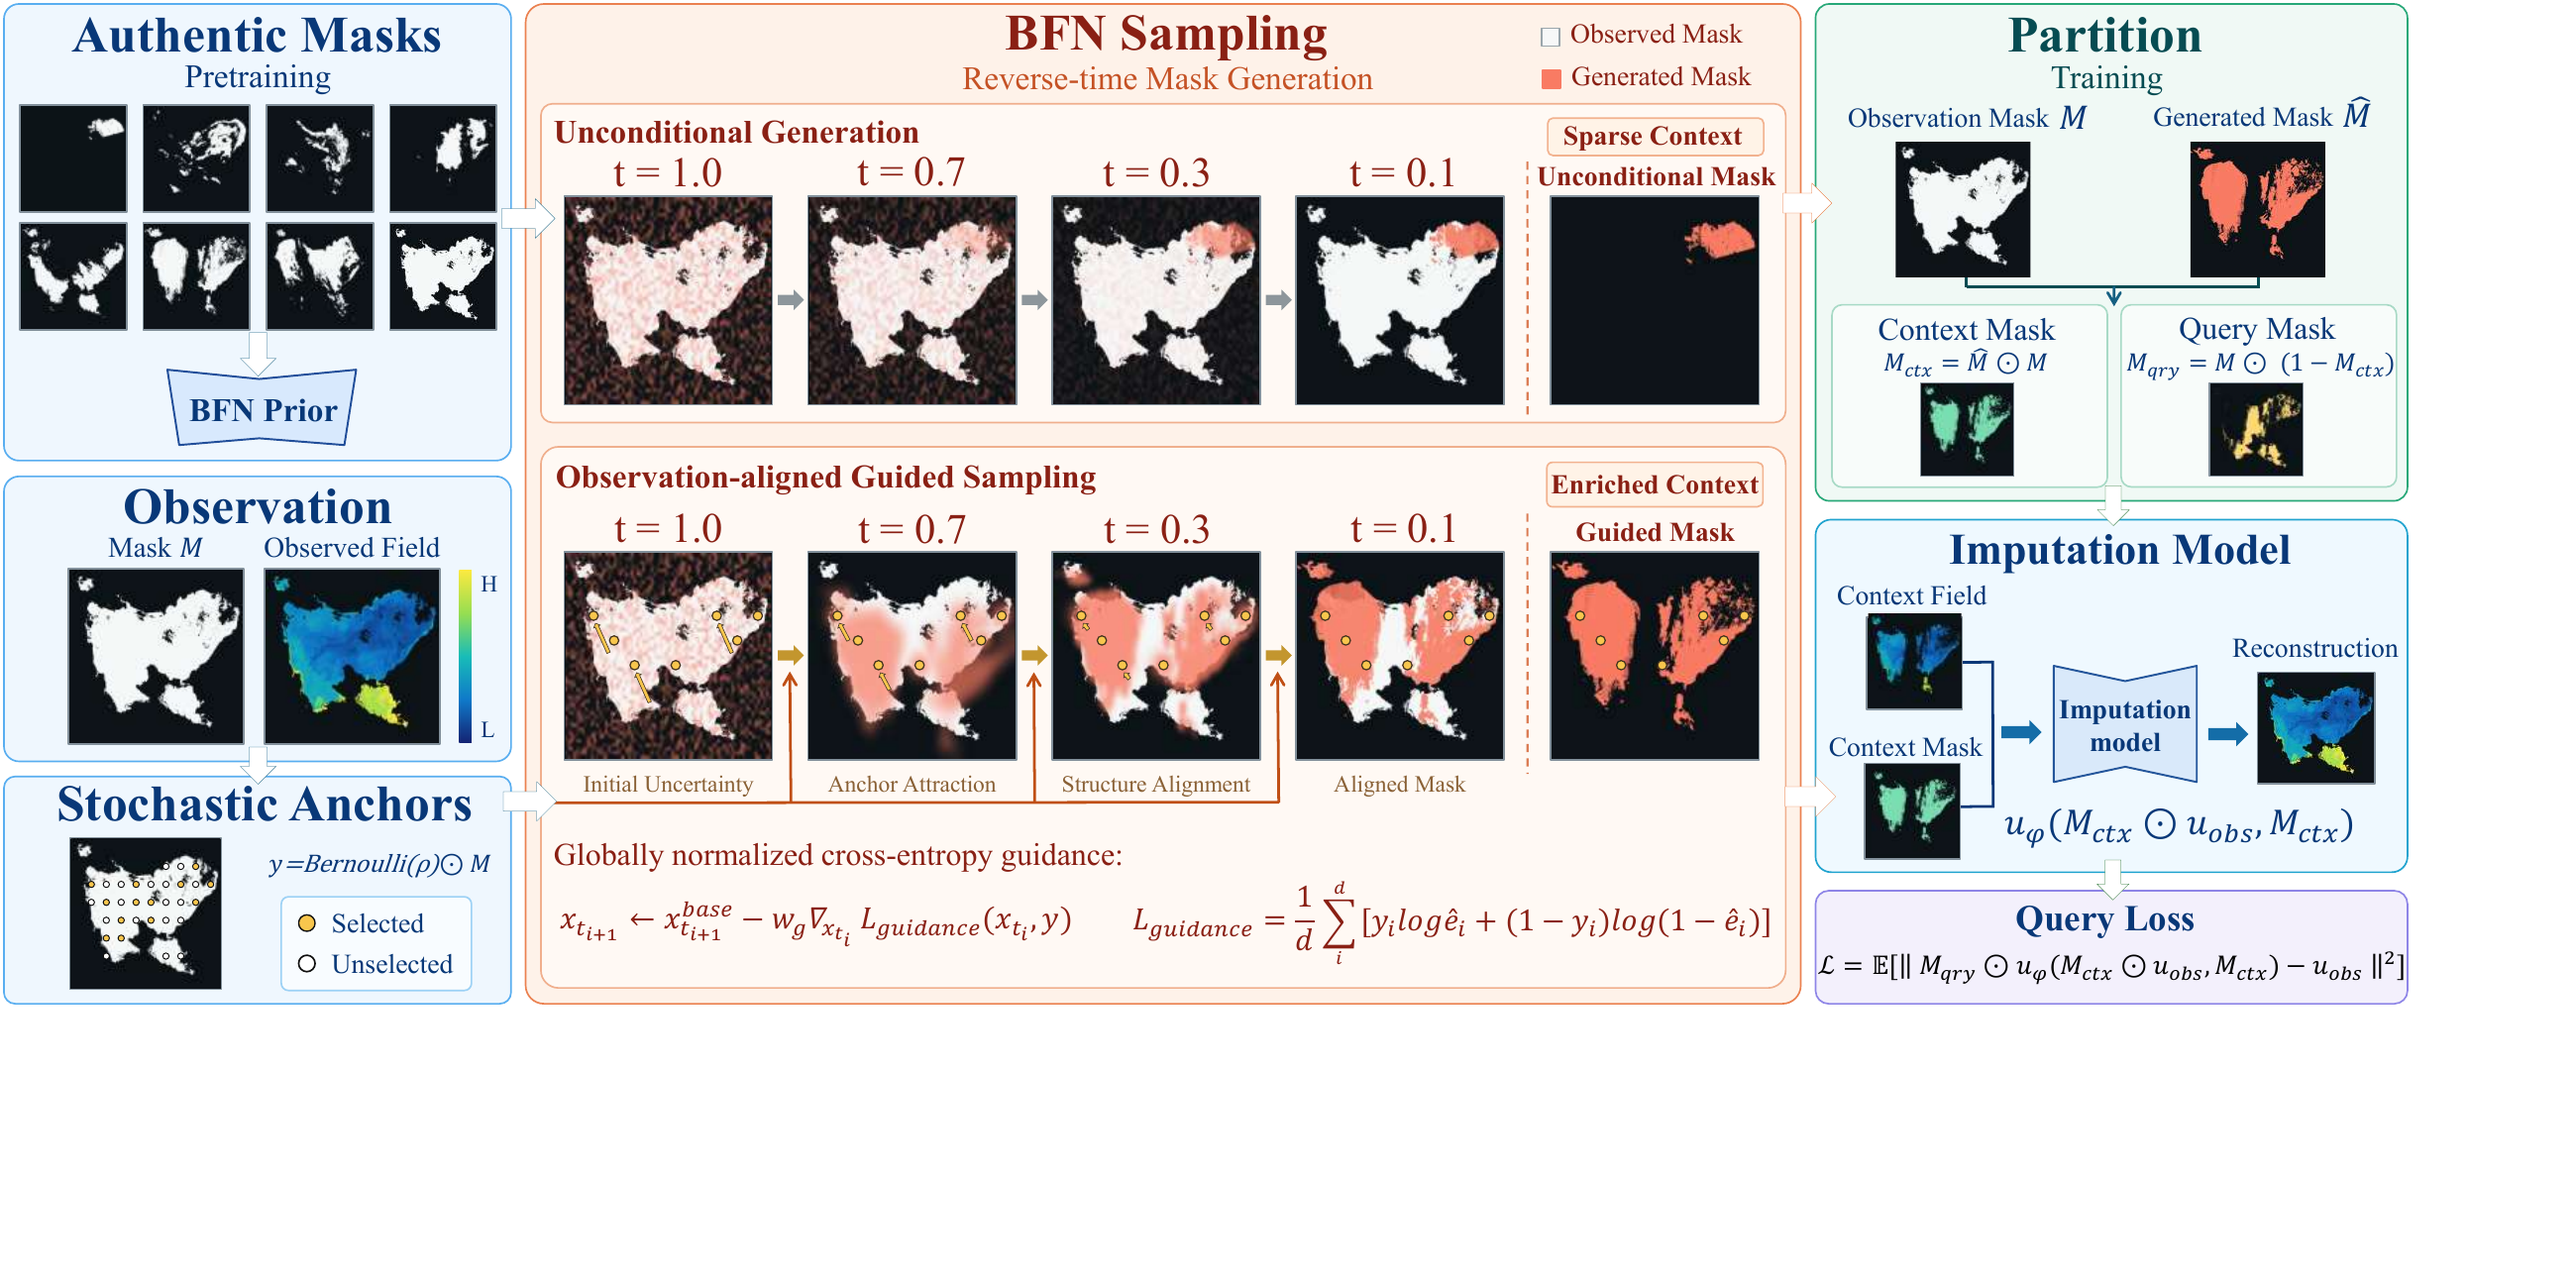
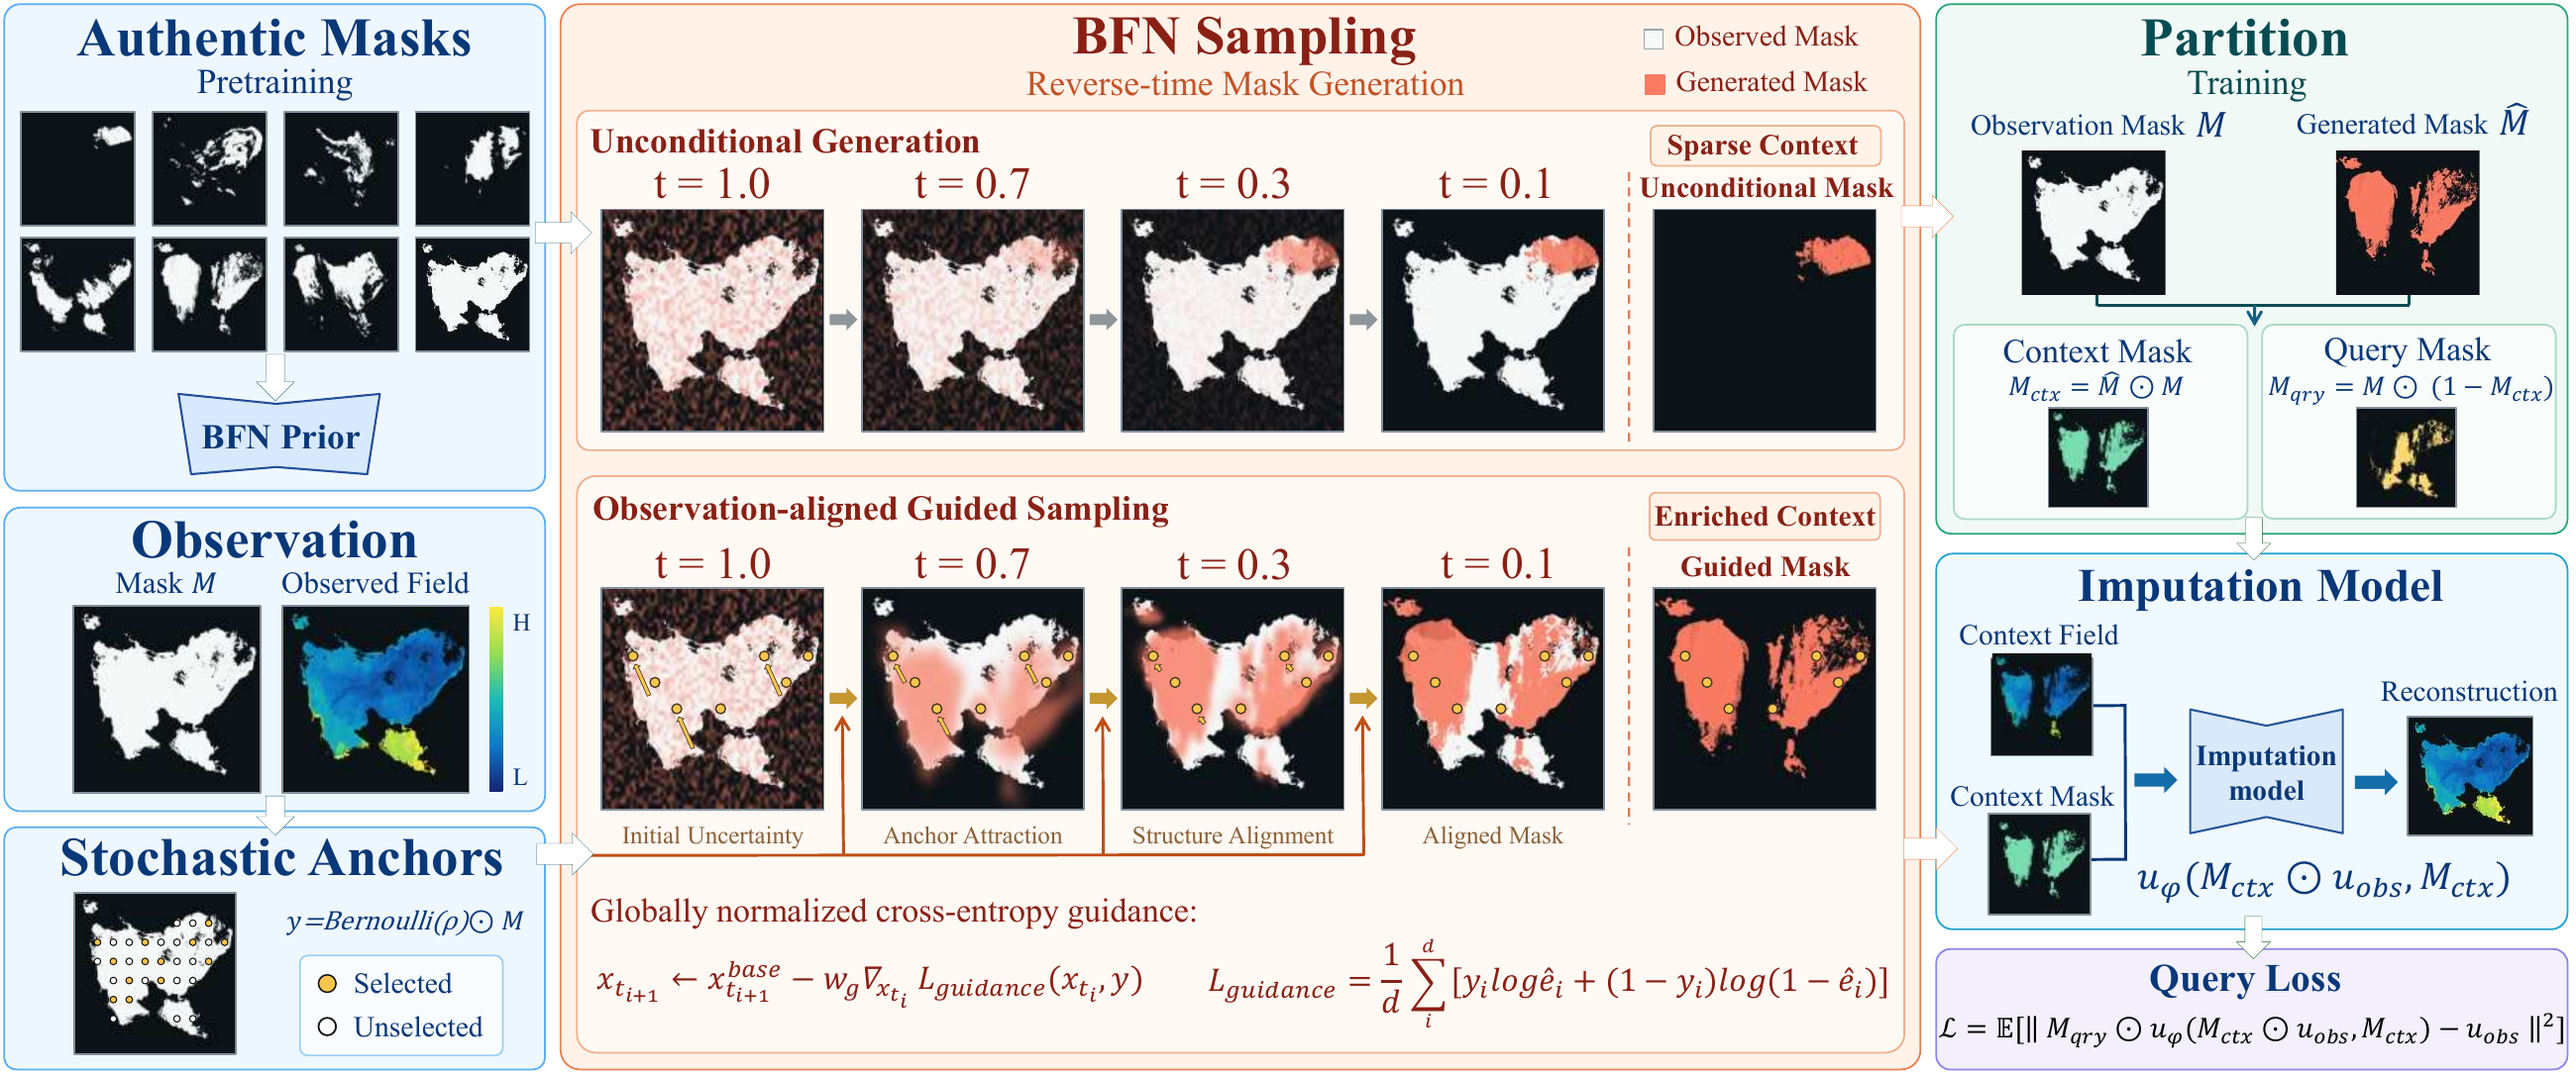
Restore selected publications, simplify leadership marking, and crop Ocean figure

diff --git a/_includes/timeline-chart.html b/_includes/timeline-chart.html
@@ -78,7 +78,6 @@
     "summary": {{ summary | markdownify | strip_html | strip | jsonify | replace: '<', '\u003c' }},
     "paper": {{ pub.paperurl | jsonify }},
     "arxiv": {{ pub.arxivurl | jsonify }},
-    "role": {% if is_zh %}{{ pub.role_zh | default: pub.role | jsonify }}{% else %}{{ pub.role | jsonify }}{% endif %},
     "code": {{ pub.githuburl | jsonify }},
     "poster": {{ pub.posterurl | jsonify }},
     "venue": {{ pub.venue | replace: 'ICML', 'ICML ' | replace: 'ICLR', 'ICLR ' | replace: 'NeurIPS', 'NeurIPS ' | replace: 'arxiv', 'arXiv' | strip | jsonify }},

diff --git a/_includes/archive-single.html b/_includes/archive-single.html
@@ -48,10 +48,6 @@
       <p>{% if page.lang == "zh-CN" %}作者：{% else %}Authors: {% endif %}{{ post.authors | raw }}</p>
     {% endif %}
 
-    {% if post.role %}
-      <p><strong>{% if page.lang == "zh-CN" %}我的角色：{{ post.role_zh | default: post.role }}{% else %}My role: {{ post.role }}{% endif %}</strong></p>
-    {% endif %}
-
     {% if post.read_time %}
       <p class="page__meta"><i class="fa fa-clock" aria-hidden="true"></i> {% include read-time.html %}</p>
     {% endif %}

diff --git a/assets/js/timeline.js b/assets/js/timeline.js
@@ -204,7 +204,6 @@
     detailContent.append(heading);
     const facts = node('dl', 'timeline-details__facts');
     facts.append(node('dt', '', words.period), node('dd', '', period(p)), node('dt', '', words.publication), node('dd', '', publication(p)));
-    if (p.role) facts.append(node('dt', '', zh ? '我的角色' : 'My role'), node('dd', '', p.role));
     detailContent.append(facts);
     if (safeUrl(p.image)) {
       const figure = node('figure', 'timeline-details__figure');

diff --git a/_includes/recent-highlights.html b/_includes/recent-highlights.html
@@ -25,7 +25,6 @@
       <div class="recent-highlight-card__body">
         <div class="recent-highlight-card__badges">
           <span class="highlight-badge">{{ venue_label }}</span>
-          {% if post.role %}<span class="highlight-badge">{% if page.lang == 'zh-CN' %}{{ post.role_zh | default: post.role }}{% else %}{{ post.role }}{% endif %}</span>{% endif %}
         </div>
         <h3 class="recent-highlight-card__title">
           {% if post.paperurl %}

diff --git a/_layouts/single.html b/_layouts/single.html
@@ -45,7 +45,6 @@ layout: default
       {% endunless %}
 
       <section class="page__content" itemprop="text">
-        {% if page.collection == 'publications' and page.role %}<p><strong>My role: {{ page.role }}</strong></p>{% endif %}
         {{ content }}
 
         {% if page.paperurl or page.slidesurl or page.posterurl or page.githuburl %}
